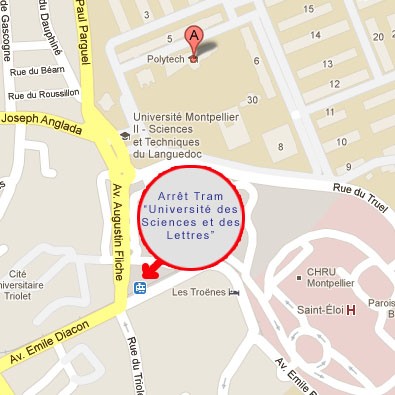
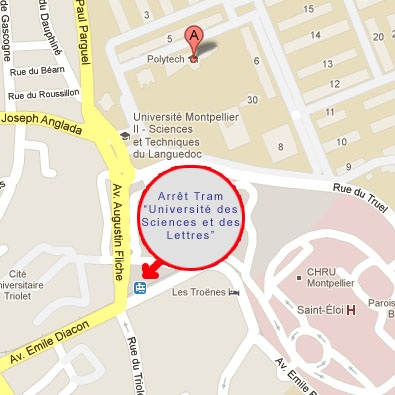
change images names

diff --git a/app/views/template.scala.html b/app/views/template.scala.html
@@ -14,7 +14,7 @@
 	
 		<div style="width:1050px;height:1350px">
 		
-			<div class="logo"><img height=100% src="/public/images/AT-MTP.png" alt=""></div>
+			<div class="logo"><img height="100%" src="/public/images/at-mtp.png" alt=""></div>
 			
 			@if(inscription.isOrganizer()) {
 			<div class="cadre cadreOrga">&nbsp;</div>
@@ -63,7 +63,7 @@
 			
 			@if(inscription.isOrganizer() || inscription.isSpeaker()) {
 			<div class="double">
-				<div class="logo"><img height=100% src="/public/images/AT-MTP.png" alt=""></div>
+				<div class="logo"><img height="100%" src="/public/images/at-mtp.png" alt=""></div>
 			
 				@if(inscription.isOrganizer()) {
 				<div class="cadre cadreOrga">&nbsp;</div>
@@ -117,7 +117,7 @@
 			</div>
 			<div class="sponsors"><img width="100%" height="100%" src="/public/images/sponsors-2.png" alt=""></div>
 
-			<div class="plan"><img width="100%" height="100%" src="/public/images/Plan.jpg" alt=""></div>
+			<div class="plan"><img width="100%" height="100%" src="/public/images/plan.jpg" alt=""></div>
 			<div class="adresseT">Se rendre à l'événement</div>
 			<div class="adresse">Ecole Polytech, Place Eugène Bataillon - Montpellier</div>
 			<div class="acces">
